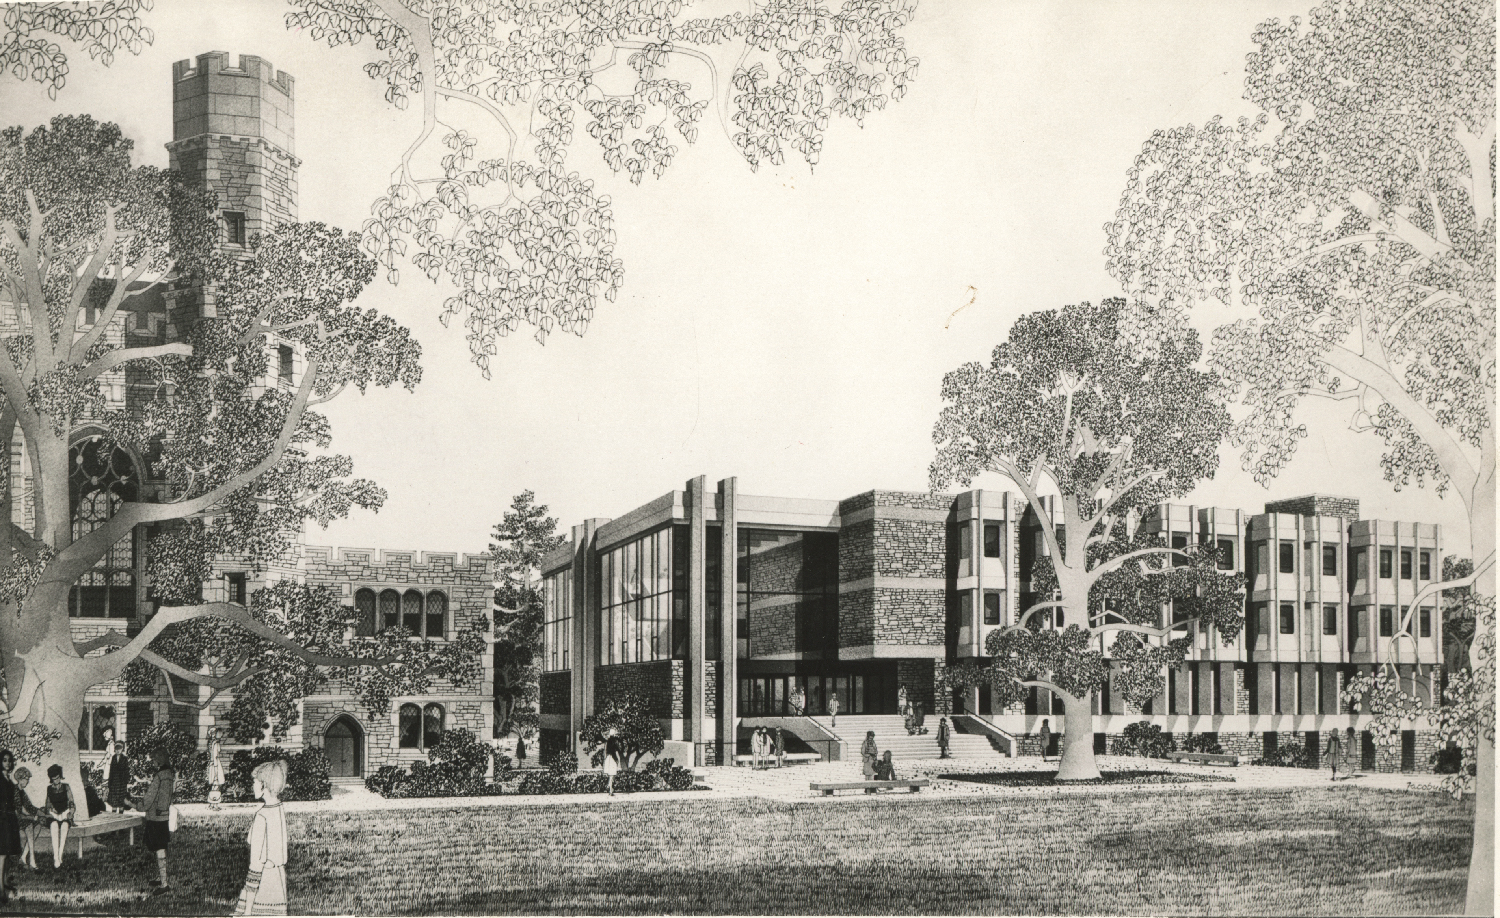
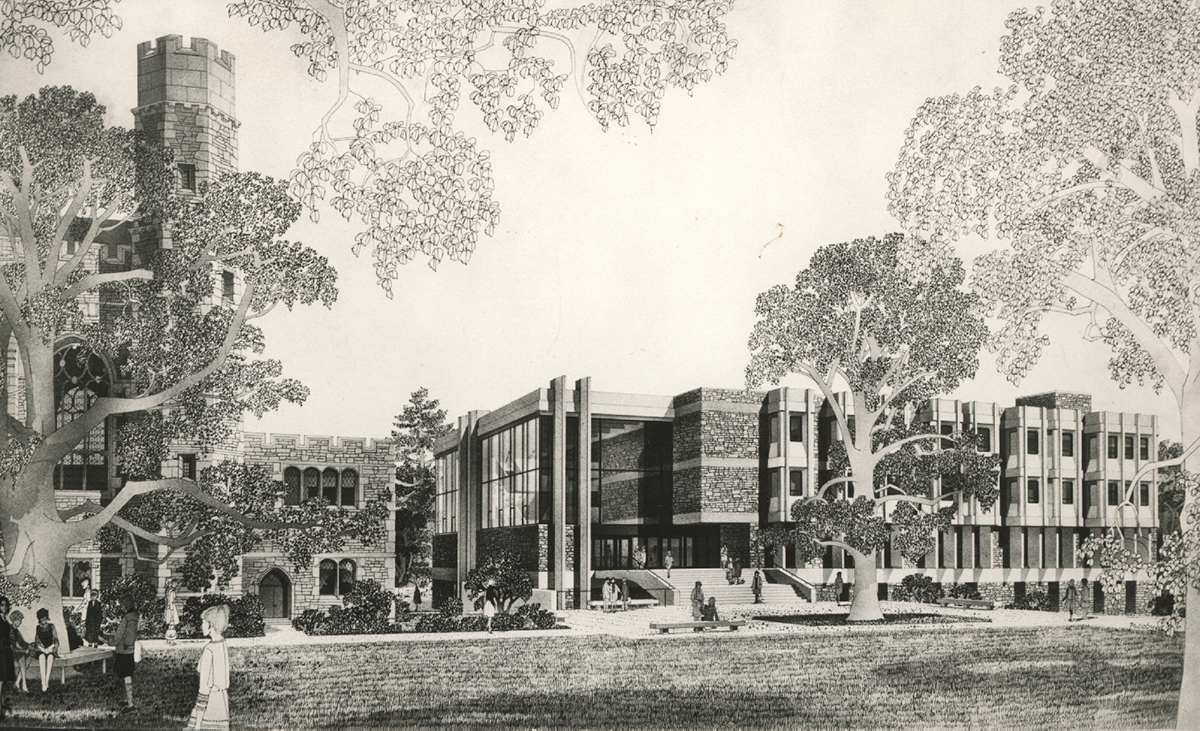
croping header image & changing font color on masthead

diff --git a/_sass/layout/_masthead.scss b/_sass/layout/_masthead.scss
@@ -1,7 +1,7 @@
 // Styling for the masthead
 header.masthead {
   text-align: center;
-  color: white;
+  // color: $secondary;
   background-image: url("#{$header-image}");
   background-repeat: no-repeat;
   background-attachment: scroll;
@@ -18,7 +18,7 @@ header.masthead {
       //@include serif-font;
     }
     .intro-heading {
-      font-size: 50px;
+      font-size: 75px;
       font-weight: 700;
       line-height: 50px;
       margin-bottom: 25px;
